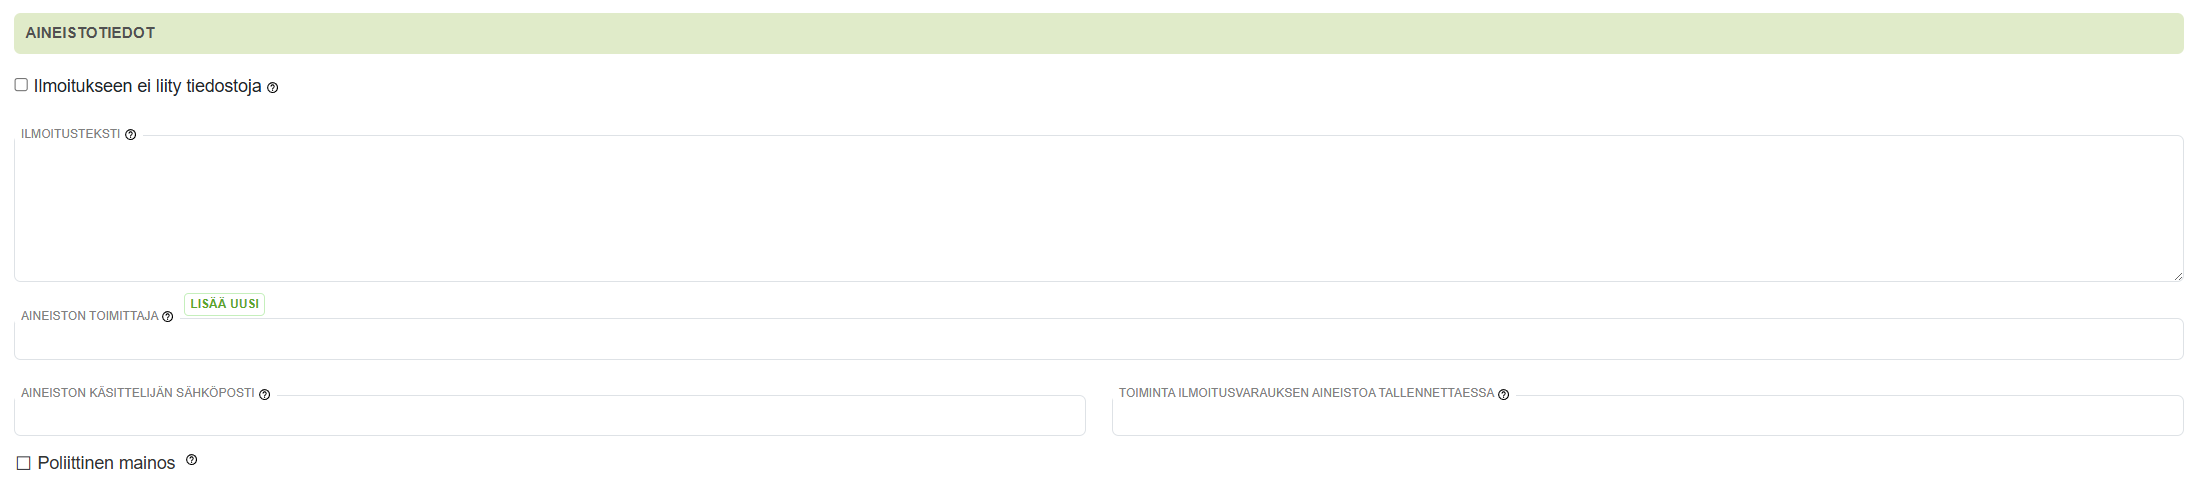
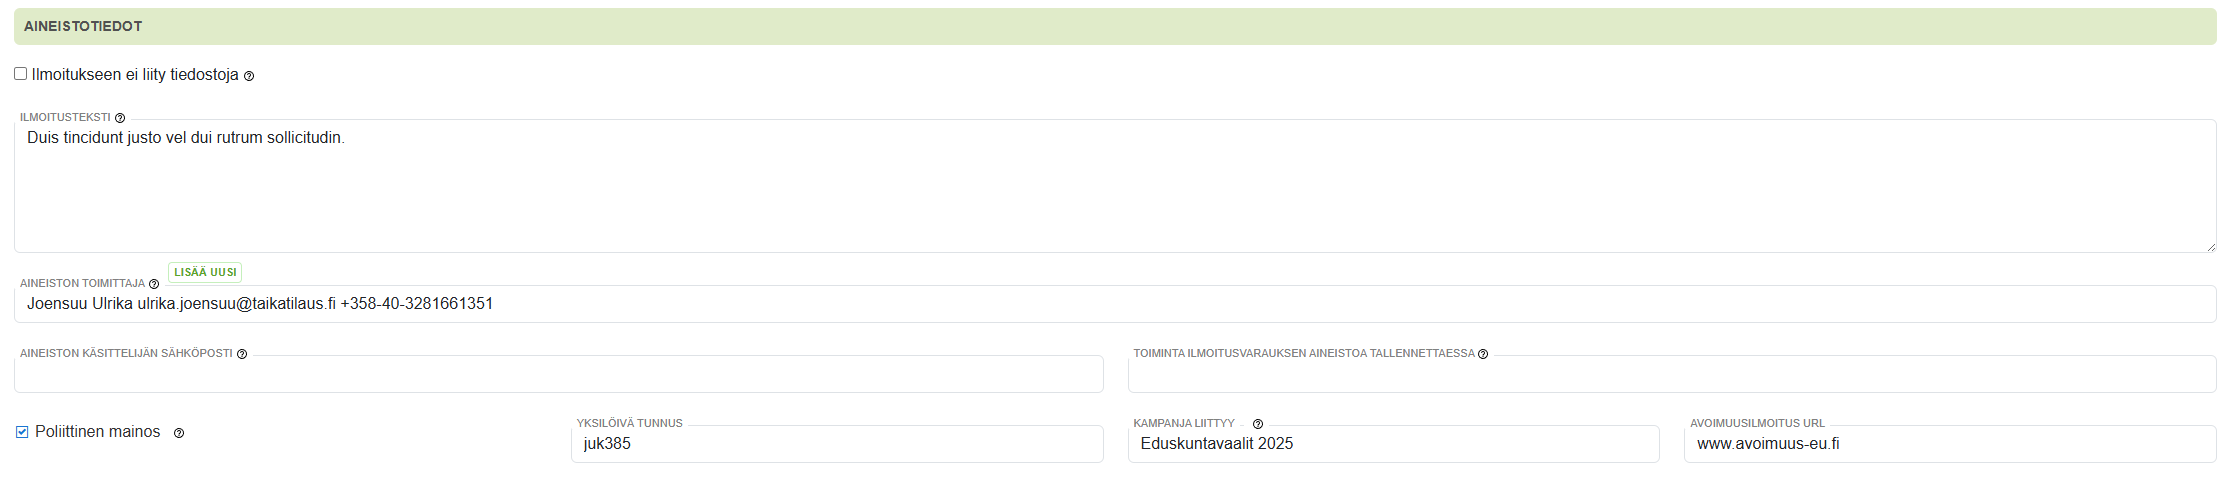
uusien raporttien ohjeet

diff --git a/docs/ohjeet/yleiset_ominaisuudet/raportit/ilmoitusmyynnin_raportit.md b/docs/ohjeet/yleiset_ominaisuudet/raportit/ilmoitusmyynnin_raportit.md
@@ -5,6 +5,12 @@ title: Ilmoitusmyynnin raportit
 
 # Ilmoitusmyynnin raportit
 
+### Ilmoitusmyynti vuosittain
+
+**Ilmoitusmyynti vuosittain** -raportti näyttää ilmoitusmyynnin yhteensä kuukausittain valitun vuoden ajalta. Raportilla näkyy verottomat ja verolliset yhteissummat.
+
+![Raportit](/img/ohjeet/ilmoitusmyynti-vuosittain.png)
+
 ### Laskutetut ilmoitusmyynnit
 
 **Laskutetut ilmoitusmyynnit** –raportille haetaan laskutetut ilmoitusmyynnit. Raportilla näytetään laskun tiedot, asiakkaan tiedot ja ilmoitusvarauksen tiedot.
@@ -35,11 +41,27 @@ title: Ilmoitusmyynnin raportit
 
 ![Raportit](/img/ohjeet/myynnit-yhteenveto.png)
 
+### Myynnit asiakkaittain, yhteenveto
+
+**Myynnit asiakkaittain, yhteenveto** -raportti kokoaa raportille asiakkaiden myynnit yhteensä (veroton hinta) annetulta aikaväliltä. Excel versiossa näytetään myynnit brutto- ja nettosummina. Bruttosumma on myyntien yhteissumma ennen asiakkaalle mahdollisia annettuja alennuksia. Nettosumma on myyntien oikea veroton yhteissumma. 
+
+![Raportit](/img/ohjeet/myynnit-asiakkaittain.png)
+
+### Myynnit asiakkaittain, tausta-ajo
+
+**Myynnit asiakkaittain, tausta-ajo** -raportti on sama kuin **Myynnit asiakkaittain, yhteenveto** -raportti, mutta raportin ajo suoritetaan tausta-ajona. Jos myyntidataa on paljon, tausta-ajo raportti toimii paremmin. 
+
 ### Laskutetut erillistuotteet
 
 **Laskutetut erillistuotteet** –raportille haetaan asetetulla aikavälillä laskutetut erillistuotteet (esimerkiksi kirjat).
 
 ![Raportit](/img/ohjeet/erillistuotteet-raportti.png)
+
+### Poliittiset mainokset
+
+**Poliittiset mainokset** -raportti hakee raportille **laskutetut** ilmoitusvaraukset ja niiden tiedot. Ilmoitusvaraus pitää olla [merkitty poliittiseksi mainokseksi](https://support.taikatilaus.fi/docs/ohjeet/ilmoitustenhallinta/ilmoitusasiakas#aineistotiedot), että sen tiedot näkyvät raportilla.
+
+![Raportit](/img/ohjeet/poliittiset-mainokset.png)
 
 ### Ilmoitusvarauksien raportit
 

diff --git a/docs/ohjeet/yleiset_ominaisuudet/raportit/asiakasraportit.md b/docs/ohjeet/yleiset_ominaisuudet/raportit/asiakasraportit.md
@@ -1,0 +1,24 @@
+---
+sidebar_position: 6
+title: Asiakasraportit
+---
+
+# Asiakasraportit
+
+Asiakasraportit ovat raportteja, jotka kokoavat kaikkien asiakkaiden tietoja raporteille. 
+
+## Alennusprosentit
+
+**Alennusprosentit** -raportti kokoaa raportille kaikki asiakkaat, joiden [asiakaskortilla](https://support.taikatilaus.fi/docs/ohjeet/yleiset_ominaisuudet/asiakkaat#laskutustiedot) on jatkuva alennusprosentti. 
+
+![Raportit](/img/ohjeet/alennusprosentit.png)
+
+## Maksutavat
+
+**Maksutavat** -raportti näyttää kaikkien asiakkaiden valitun laskun toimitustavan ja siihen liittyvät laskutustiedot (esim. verkkolaskutiedot). Voit valita näytettäväksi vain ne asiakkaat, joilla on voimassa oleva tilaus. Raportti tulostuu Excel-muodossa.
+
+![Raportit](/img/ohjeet/maksutavat2.png)
+*Raportin hakuehdot*
+
+![Raportit](/img/ohjeet/maksutavat.png)
+*Raportin tuloste*

diff --git a/docs/ohjeet/ilmoitustenhallinta/ilmoitusasiakas.md b/docs/ohjeet/ilmoitustenhallinta/ilmoitusasiakas.md
@@ -385,6 +385,10 @@ Aineistotiedoissa voi:
 - lisätä käsittelijän sähköpostin
 - määrittää, että järjestelmä lähettää automaattisen viestin ilmoituksen käsittelijälle, kun aineisto on lisätty ilmoitukseen
 - määrittää, onko mainos poliittinen
+   - kun klikkaat **Poliittinen mainos** -kentän aktiiviseksi, ilmestyy lomakkeelle lisäkenttiä
+      - **Yksilöivä tunnus:** lain vaatima ilmoituksen yksilöivä tunnus
+      - **Kampanja liittyy:** mihin vaaliin tai lainsäädäntöön mainos liittyy
+      - **Avoimuusilmoitus URL:** lain vaatiman avoimuusilmoituksen URL
 
 Jos ilmoituksessa on **vain teksti**, aktivoi **Ilmoitukseen ei liity tiedostoja**.
 

diff --git a/docs/ohjeet/yleiset_ominaisuudet/raportit/graafiset_raportit.md b/docs/ohjeet/yleiset_ominaisuudet/raportit/graafiset_raportit.md
@@ -1,5 +1,5 @@
 ---
-sidebar_position: 6
+sidebar_position: 7
 title: Graafiset raportit
 ---
 
